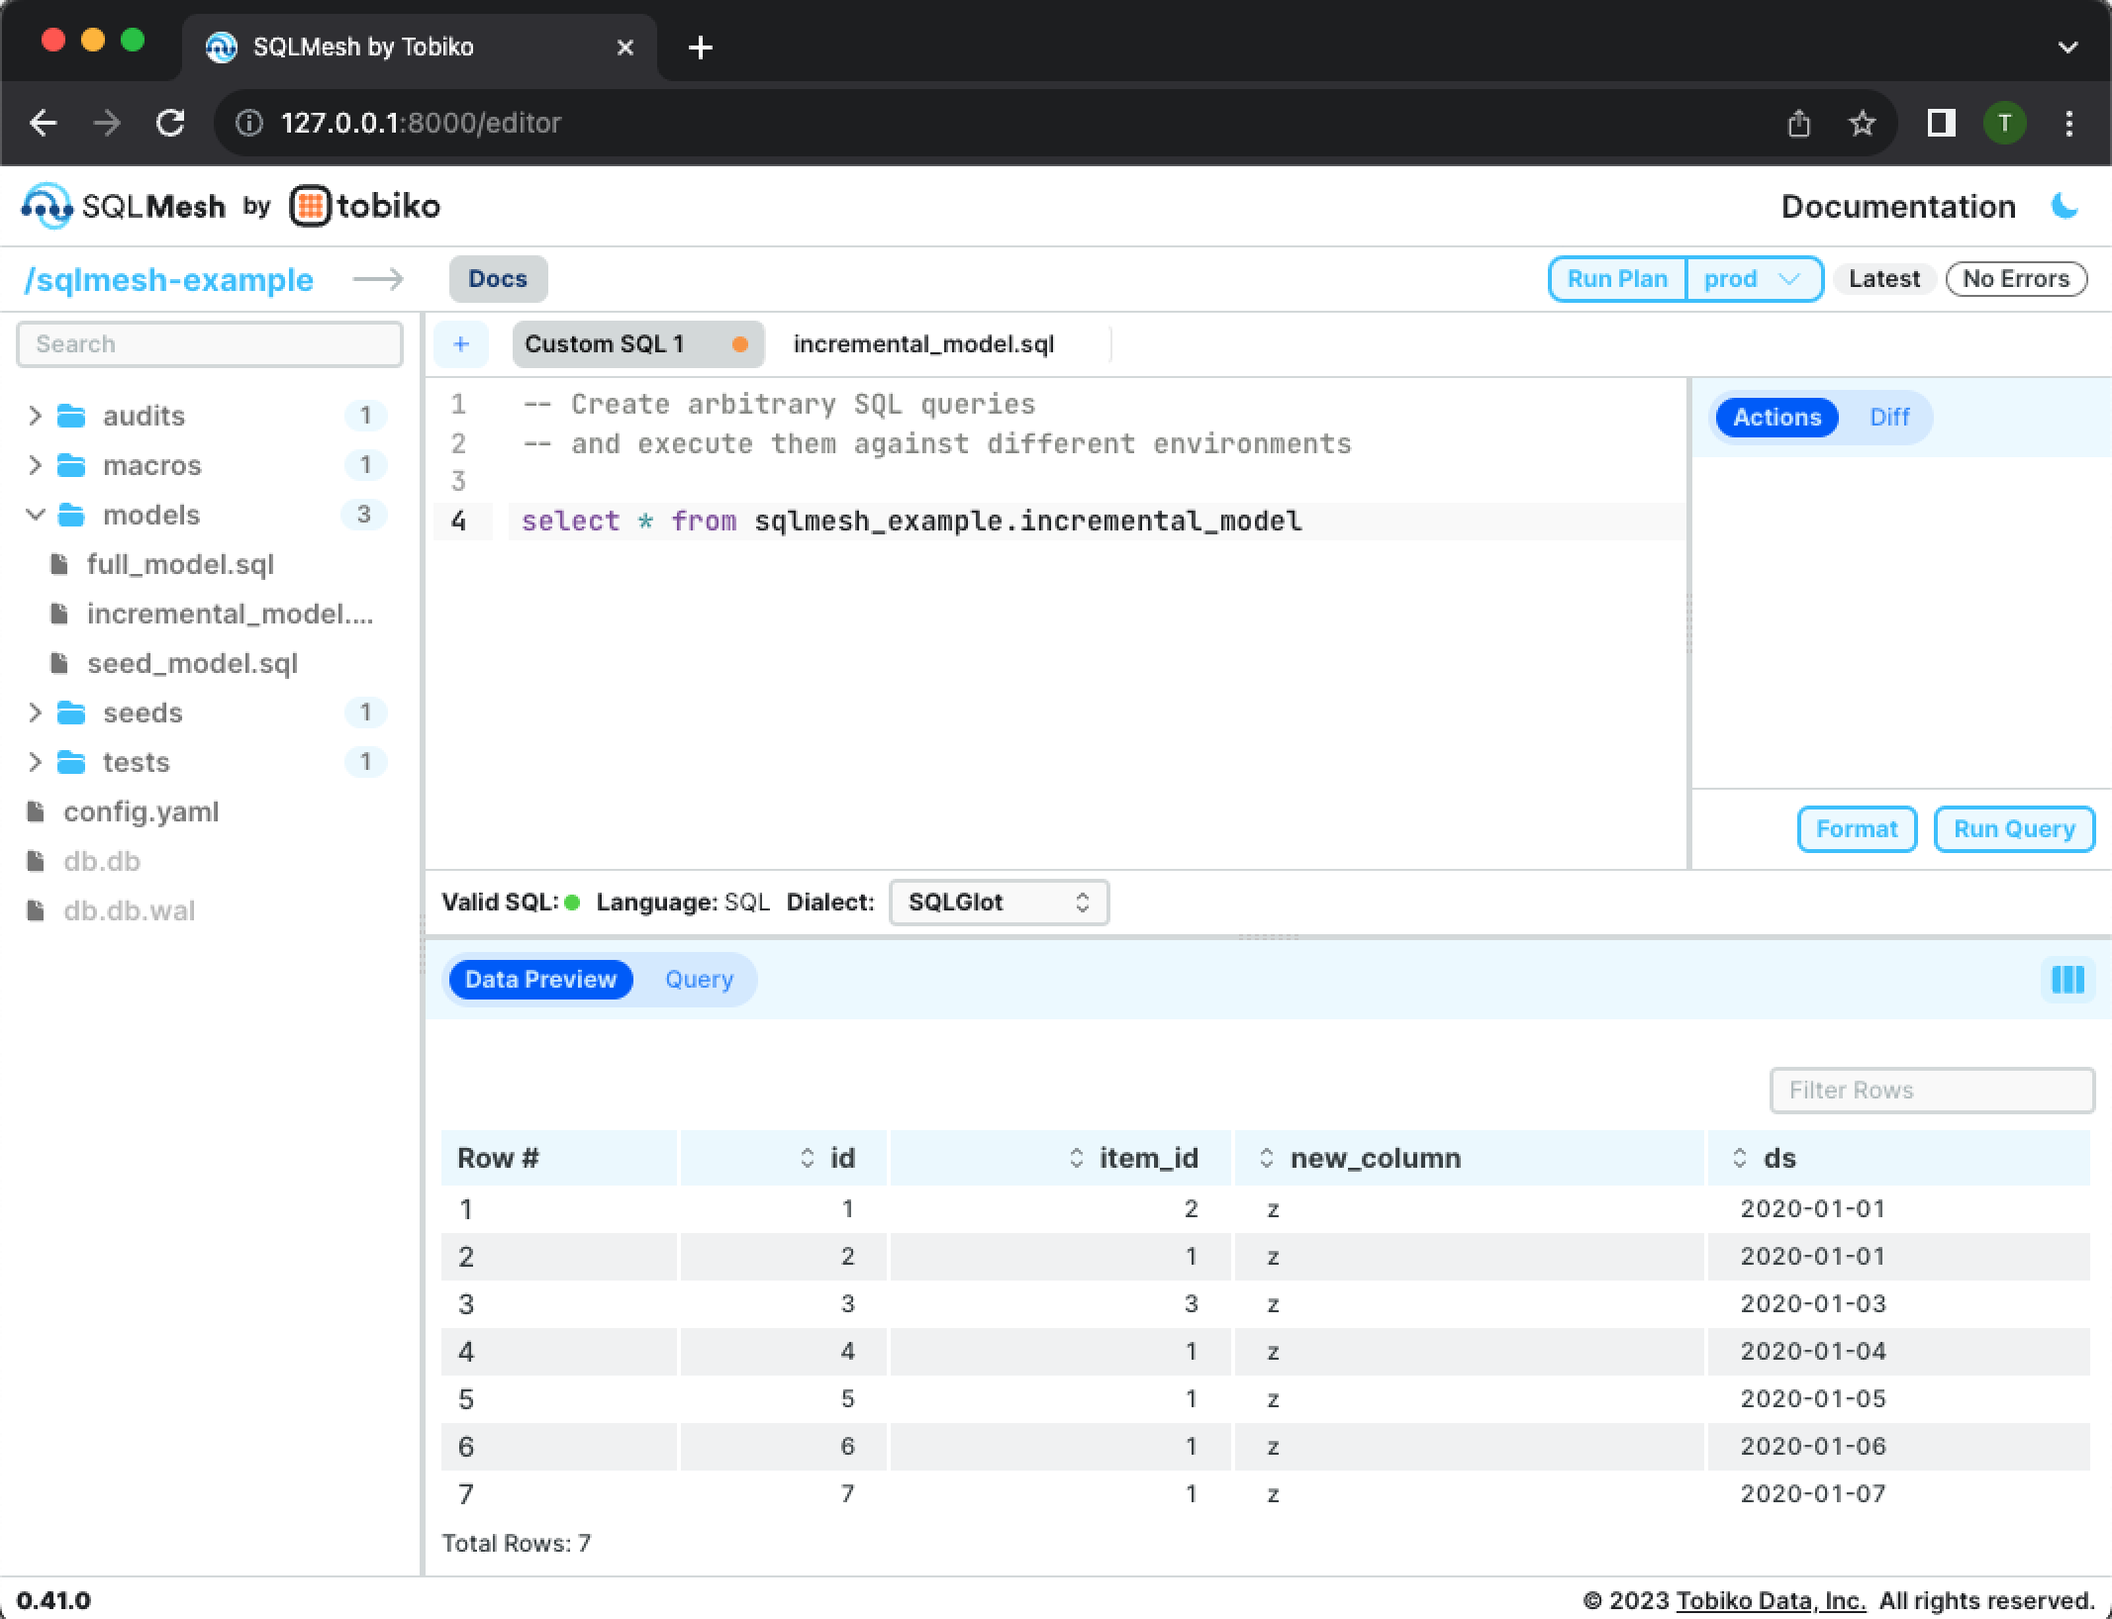
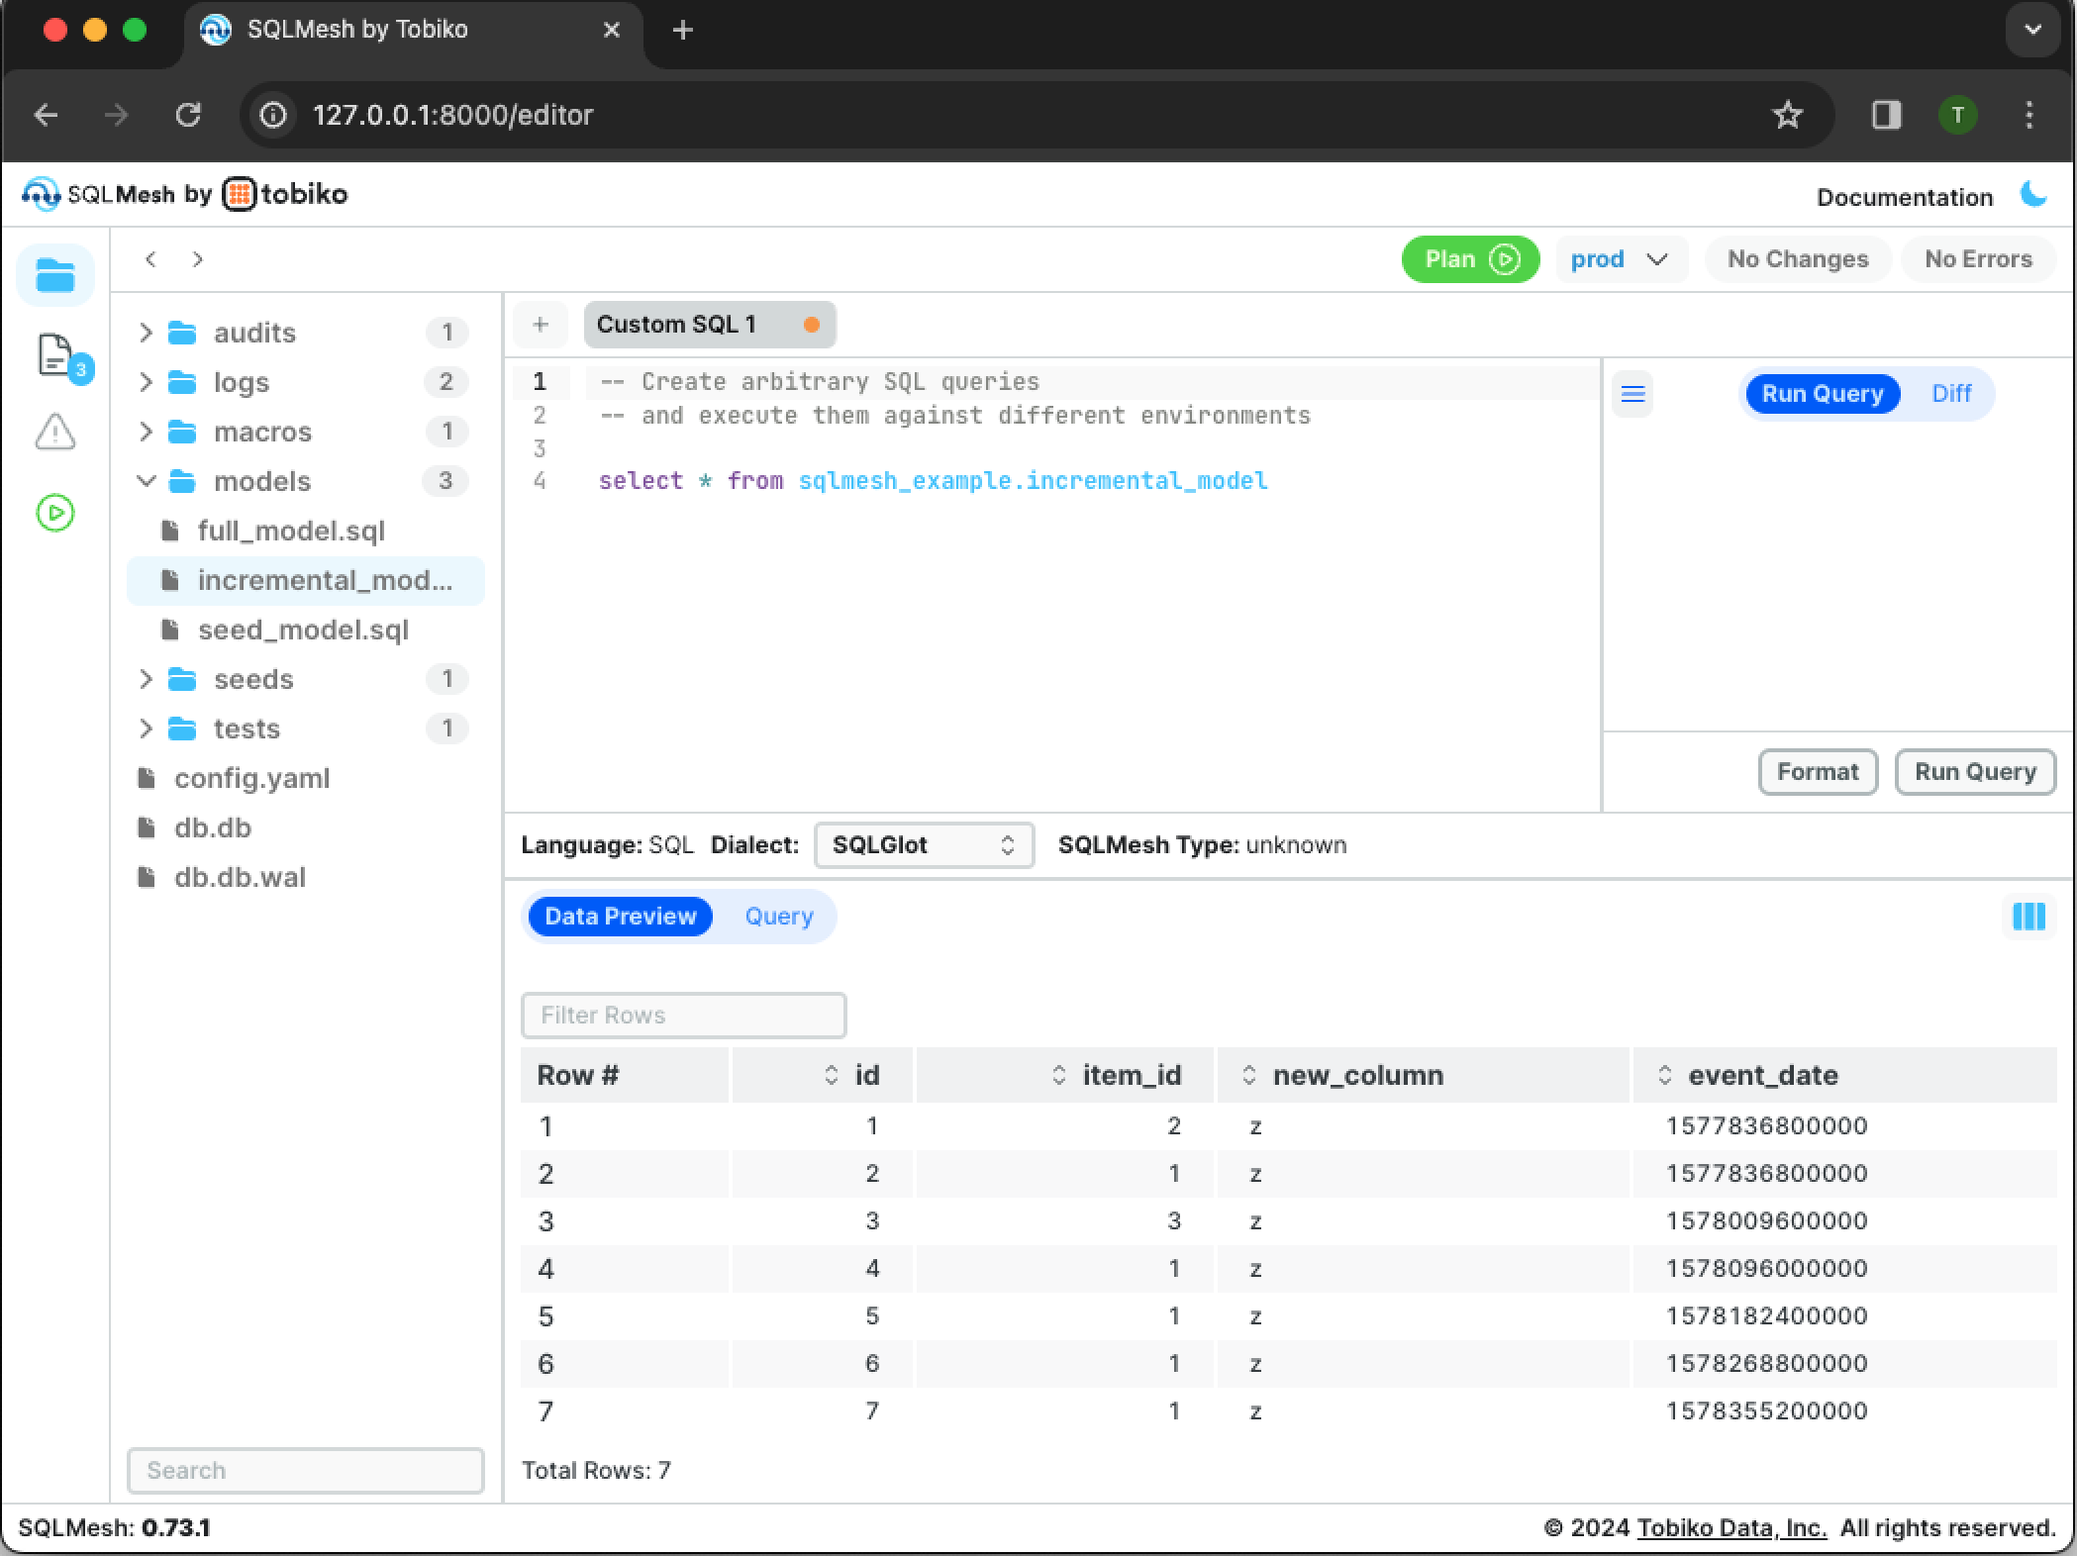
Update UI quickstart to reflect UI updates

diff --git a/docs/quickstart/ui.md b/docs/quickstart/ui.md
@@ -159,27 +159,31 @@ The SQLMesh UI default view contains five panes:
 1. Project directory allows navigation of project directories and files.
 2. Editor tabs displays open code editors.
 3. Code editor allows viewing and editing code files.
-4. Inspector provides settings and information based on recent actions and the currently active pane.
-5. Details displays results of queries.
+4. Inspector provides settings and information based on recent actions and the currently active pane. (Note: inspector pane is collapsed by default. Expand it by clicking the hamburger button at the top of the collapsed pane - see previous image.)
+5. Details displays column-level lineage for models open in the editor and results of queries. (Note: details pane is collapsed by default. It will automatically expand upon opening a model in the editor or running a query.)
 
 ![SQLMesh web UI panes](./ui/ui-quickstart_ui-startup-panes.png)
 
-It also contains six buttons:
+It also contains nine buttons:
 
-1. Add new tab opens a new code editor window.
-2. Toggle Editor/Docs view toggles between the Code Editor (default) and Docs views.
-3. Run plan command executes the [`sqlmesh plan` command](../reference/cli.md#plan).
-4. Run query command executes the [`sqlmesh fetchdf` command](../reference/cli.md#fetchdf).
-5. Format SQL query reformats the SQL query using SQLGlot's pretty layout.
-6. Change SQL dialect specifies the SQL dialect of the current tab for custom SQL queries. It does not affect the SQL dialect for the project.
+1. Toggle Editor/Docs/Errors toggles among the Code Editor (default), Docs, and Errors views. Errors view is only available if an error has occurred.
+2. History navigation returns to previous views, similar to the back button in a web browser.
+3. Add new tab opens a new code editor window.
+4. Run plan command executes the [`sqlmesh plan` command](../reference/cli.md#plan).
+5. Documentation links to the SQLMesh documentation website.
+6. The crescent moon toggles between page light and dark modes.
+7. Run SQL query executes the [`sqlmesh fetchdf` command](../reference/cli.md#fetchdf).
+8. Format SQL query reformats a SQL query using SQLGlot's pretty layout.
+9. Change SQL dialect specifies the SQL dialect of the current tab for custom SQL queries. It does not affect the SQL dialect for the project.
 
 ![SQLMesh web UI buttons](./ui/ui-quickstart_ui-startup-buttons.png)
 
-The default view contains three status indicators:
+The default view contains four status indicators:
 
 1. Editor tab language displays the programming language of the current code editor tab (SQL or Python).
-2. Change indicator displays a summary of the changes in the most recently run SQLMesh plan.
-3. Error indicator displays the count of errors that occurred in the most recently run SQLMesh plan.
+2. Current environment displays the currently selected environment
+3. Change indicator displays a summary of the changes in the project files relative to the most recently run SQLMesh plan in the selected environment.
+4. Error indicator displays the count of errors in the project.
 
 ![SQLMesh web UI status indicators](./ui/ui-quickstart_ui-startup-status.png)
 
@@ -200,18 +204,14 @@ SQLMesh's key actions are creating and applying *plans* to *environments*. At th
 
     After SQLMesh creates a plan, it summarizes the breaking and non-breaking changes so you can understand what will happen if you apply the plan. It will prompt you to "backfill" data to apply the plan - in this context, backfill is a generic term for updating or adding to a table's data (including an initial load or full refresh).
 
-The first SQLMesh plan must execute every model to populate the production environment. Click the blue `Run Plan` button in the top right, and a new pane will open on the right side.
+The first SQLMesh plan must execute every model to populate the production environment. Click the green `Plan` button in the top right, and a new pane will open.
 
 The pane contains multiple pieces of information about the plan:
 
-- The pane title on the top left states that the plan's target environment is `prod`. The error indicator on the top right shows that the plan has no errors associated with it.
 - The `Initializing Prod Environment` section shows that the plan is initializing the `prod` environment.
-- The `Tests` section notes that the plan successfully executed the project's test `tests/test_full_model.yaml` with duckdb.
-- The `Models` section shows that SQLMesh detected three new models added relative to the current empty environment.
-- In the `Backfill` section, the `Needs Backfill` sub-section lists each model that will be executed by the plan, along with the date intervals that will be run. Both `full_model` and `incremental_model` show `2020-01-01` as their start date because:
-
-    1. The incremental model specifies that date in the `start` property of its `MODEL` statement and
-    2. The full model depends on the incremental model
+- The Start and End date sections are grayed out because they are not allowed when running a plan in the `prod` environment.
+- The `Changes` section shows that SQLMesh detected three models added relative to the current empty environment.
+- The `Backfills` section shows that backfills will occur for all three of the added models.
 
 ??? info "Learn more about the project's models"
 
@@ -290,20 +290,27 @@ The pane contains multiple pieces of information about the plan:
 
 ![Run plan pane](./ui/ui-quickstart_run-plan.png)
 
-Click the blue button labeled `Apply And Backfill` to apply the plan and initiate backfill. The `Backfill` section contents at the bottom will update.
+Click the blue button labeled `Apply Changes And Backfill` to apply the plan and initiate backfill.
 
-The updated backfill output shows the operation's completion status. The first progress indicator shows the total number of tasks and completion percentage for the entire backfill operation. The remaining progress bars show completion percentage and run time for each model (very fast in this simple example).
+The page will update and new output sections will appear. Each section reflects a stage in the plan application and will be green if the step succeeded.
+
+The `Tests Completed` section indicates that the project's [unit tests](../concepts/tests.md) ran successfully.
+
+The `Snapshot Tables Created` indicates that [snapshots](../concepts/architecture/snapshots.md) of the added and modified models were created successfully.
+
+
+The `Backfilled` section shows progress indicators for the backfill operations. The first progress indicator shows the total number of tasks and completion percentage for the entire backfill operation. The remaining progress bars show completion percentage and run time for each model (very fast in this simple example).
 
 ![Apply plan pane](./ui/ui-quickstart_apply-plan.png)
 
-Click the blue `Done` button to close the pane.
+Click the `Go Back` button to close the pane.
 
 You've now created a new production environment with all of history backfilled.
 
 ### 2.2 Create a dev environment
-Now that you've created a production environment, it's time to create a development environment so that you can modify models without affecting production.
+Now that you've created the production environment, it's time to create a development environment so you can modify models without affecting production.
 
-Open the environment menu by clicking the button labeled `prod \/` next to the blue `Run plan` button on the top right. Type `dev` into the Environment field and click the blue `Add` button.
+Open the environment menu by clicking the button labeled `prod \/` next to the green `Plan` button on the top right. Type `dev` into the Environment field and click the blue `Add` button.
 
 ![Open environment menu](./ui/ui-quickstart_create-dev.png)
 
@@ -311,38 +318,24 @@ The button now shows that the SQLMesh UI is working in the `dev` environment:
 
 ![Working in dev environment](./ui/ui-quickstart_plan-dev.png)
 
-Click the `Run Plan` button, and a new pane will open:
+Click the green `Plan` button, and a new pane will open:
 
 ![Run plan on dev pane](./ui/ui-quickstart_run-plan-dev.png)
 
-The pane title on the top left states that the plan's target environment is now `dev`. The error indicator on the top right shows that the plan has no errors associated with it.
+The output section does not list any added/modified models or backfills because `dev` is being created from the existing `prod` environment without modification. Because the project has not been modified, no new computations need to run and a virtual update occurs.
 
-The output does not list any added or modified models because `dev` is being created from the existing `prod` environment without modification.
-
-Dates in the `Set Dates` section are automatically populated based on the `prod` environment.
-
-The `Additional Options` section can be opened to display detailed configuration options for the plan.
-
-Click the blue `Run` button to create the new plan:
+Click the blue `Apply Virtual Update` button to apply the new plan:
 
 ![Run plan on dev pane output](./ui/ui-quickstart_run-plan-dev-output.png)
 
-The `Backfill` section shows that only a virtual update will occur. The project has not been modified, so no new computations need to run.
-
-Click the blue `Apply Virtual Update` button to perform the virtual update:
-
-![Apply virtual update on dev](./ui/ui-quickstart_apply-plan-dev.png)
-
-The output confirms that the virtual update has completed. Click the blue `Done` button to close the pane.
+The output confirms that the tests, virtual update, snapshot table creation, and environment promotion steps have completed. Click the `Go Back` button to close the pane.
 
 ## 3. Make your first update
 
 Now that we have have populated both `prod` and `dev` environments, let's modify one of the SQL models, validate it in `dev`, and push it to `prod`.
 
-### 3.1 Edit the configuration
+### 3.1 Edit the model query
 To modify the incremental SQL model, open it in the editor by clicking on it in the project directory pane on the left side of the window.
-
-The inspector pane on the right now shows the `Actions` tab, where you can specify parameters and [`Evaluate`](../reference/cli.md#evaluate) the SQLMesh model. The other tabs display information about the model, including its columns and the rendered query.
 
 The `Details` pane at the bottom displays the project's table and column lineage.
 
@@ -354,21 +347,17 @@ Modify the incremental SQL model by adding a new column to the query. Press `Cmd
 
 
 ## 4. Plan and apply updates
-Preview the impact of the change by clicking the `Run Plan` button in the top right.
-
-Click the blue `Run` button in the newly opened pane, and the updated plan information will appear:
+Preview the impact of the change by clicking the green `Plan` button in the top right.
 
 ![Plan pane after running plan with modified incremental model](./ui/ui-quickstart_run-plan-dev-modified.png)
 
-The `Test` output section notes that `plan` successfully executed the project's test `tests/test_full_model.yaml` with duckdb.
+The `Changes` section detects that we directly modified `incremental_model` and that `full_model` was indirectly modified because it selects from the incremental model. SQLMesh understood that the change was additive (added a column not used by `full_model`) and was automatically classified as a non-breaking change.
 
-The `Models` section detects that we directly modified `incremental_model` and that `full_model` was indirectly modified because it selects from the incremental model. SQLMesh understood that the change was additive (added a column not used by `full_model`) and was automatically classified as a non-breaking change.
-
-The `Backfill` section describes the models requiring backfill, including the incremental model from our start date `2020-01-01`. Click the blue `Apply And Backfill` button to apply the plan and execute the backfill:
+The `Backfill` section shows that only `incremental_model` requires backfill. Click the blue `Apply Changes And Backfill` button to apply the plan and execute the backfill:
 
 ![Plan after applying updated plan with modified incremental model](./ui/ui-quickstart_apply-plan-dev-modified.png)
 
-SQLMesh applies the change to `sqlmesh_example.incremental_model` and backfills the model. The `Backfill` section shows that the backfill completed successfully.
+SQLMesh applies the change to `sqlmesh_example.incremental_model` and backfills the model. The `Backfilled` section shows that the backfill completed successfully.
 
 ### 4.1 Validate updates in dev
 You can now view this change by querying data from `incremental_model`. Add the SQL query `select * from sqlmesh_example__dev.incremental_model` to the Custom SQL 1 tab in the editor:
@@ -394,7 +383,7 @@ Now that we've tested the changes in dev, it's time to move them to prod. Open t
 
 ![`prod` environment selected in environment menu](./ui/ui-quickstart_plan-prod-modified.png)
 
-Click the `Run Plan` button, and a warning screen will appear:
+Click the green `Plan` button, and a warning screen will appear:
 
 ![`prod` environment modification warning](./ui/ui-quickstart_plan-prod-modified-warning.png)
 
@@ -402,15 +391,11 @@ Click the `Yes, Run prod` button to proceed, and the run plan interface will app
 
 ![`prod` environment plan pane](./ui/ui-quickstart_plan-prod-modified-pane.png)
 
-Click the `Run` button, and the apply plan interface will appear:
-
-![`prod` environment apply plan pane](./ui/ui-quickstart_apply-plan-prod-modified-pane.png)
-
 Click the blue `Apply Virtual Update` button to apply the plan and execute the backfill:
 
 ![`prod` environment after applying plan](./ui/ui-quickstart_apply-plan-prod-modified.png)
 
-Note that a backfill was not necessary and only a Virtual Update occurred - the computations have already occurred when backfilling the model in `dev`. Click the blue `Done` button to close the pane.
+Note that a backfill was not necessary and only a Virtual Update occurred - the computations have already occurred when backfilling the model in `dev`. Click the `Go Back` button to close the pane.
 
 ### 4.3. Validate updates in prod
 Double-check that the data updated in `prod` by re-running the SQL query from the editor. Click the `Run Query` button to execute the query:
